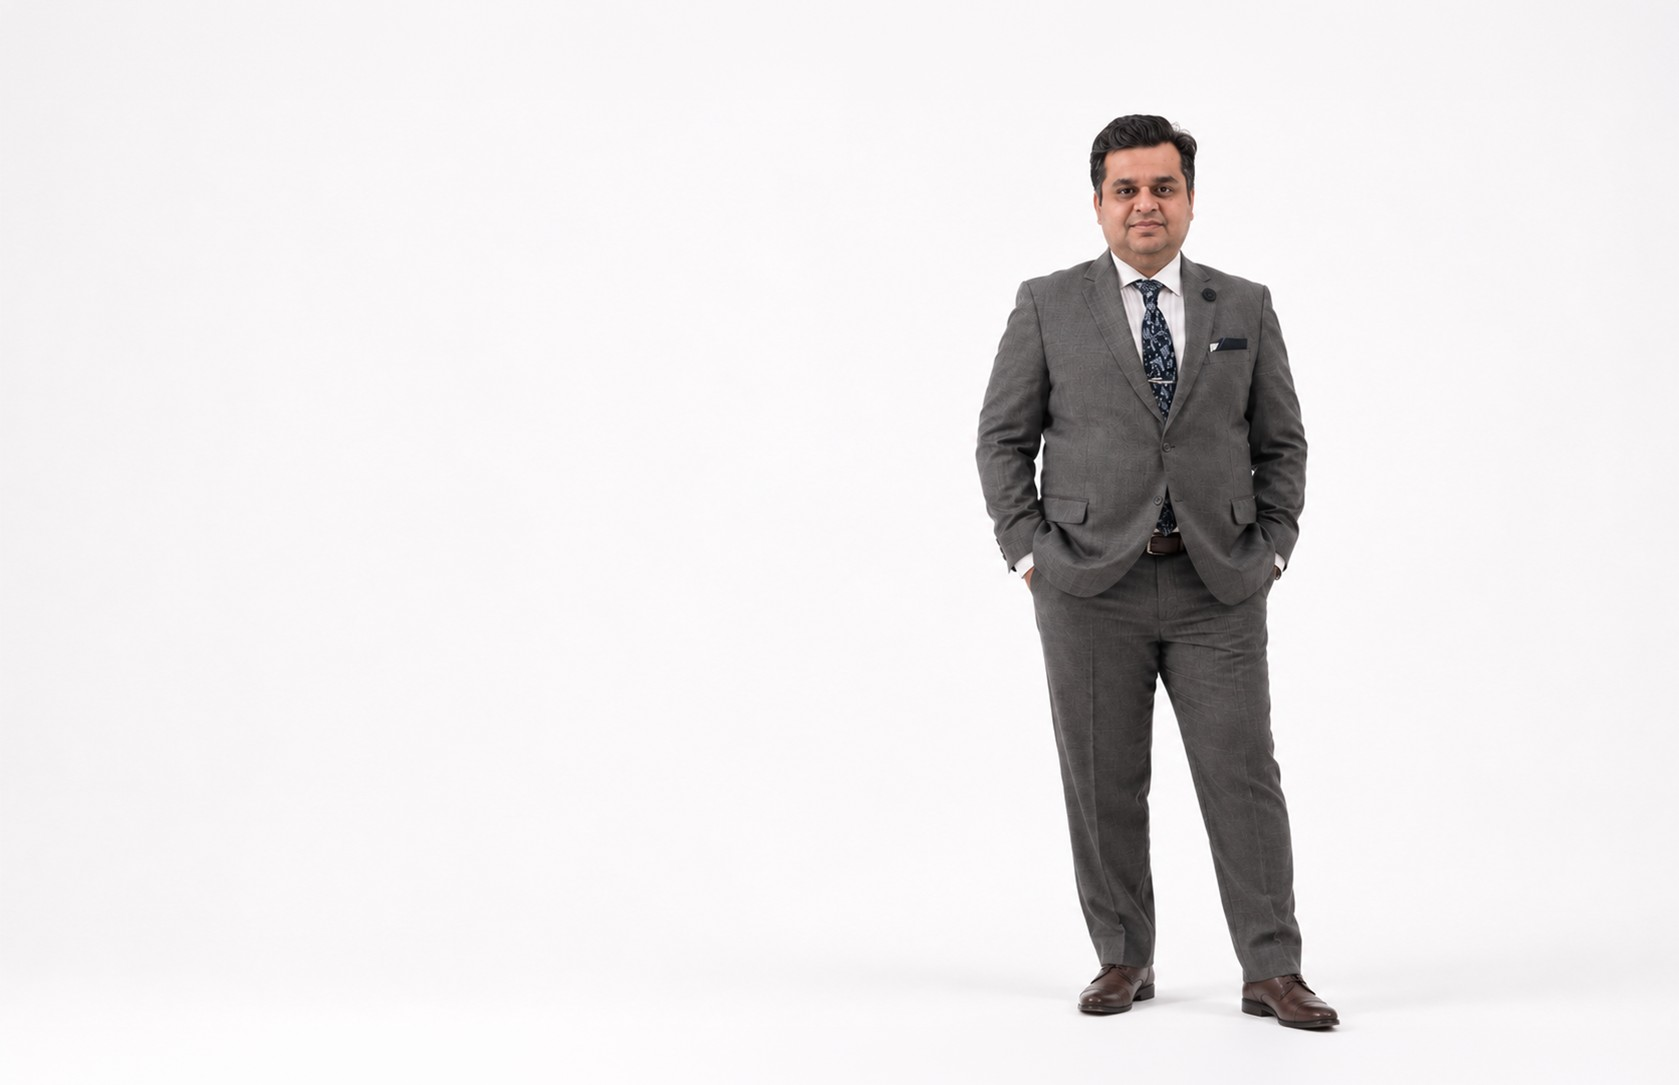
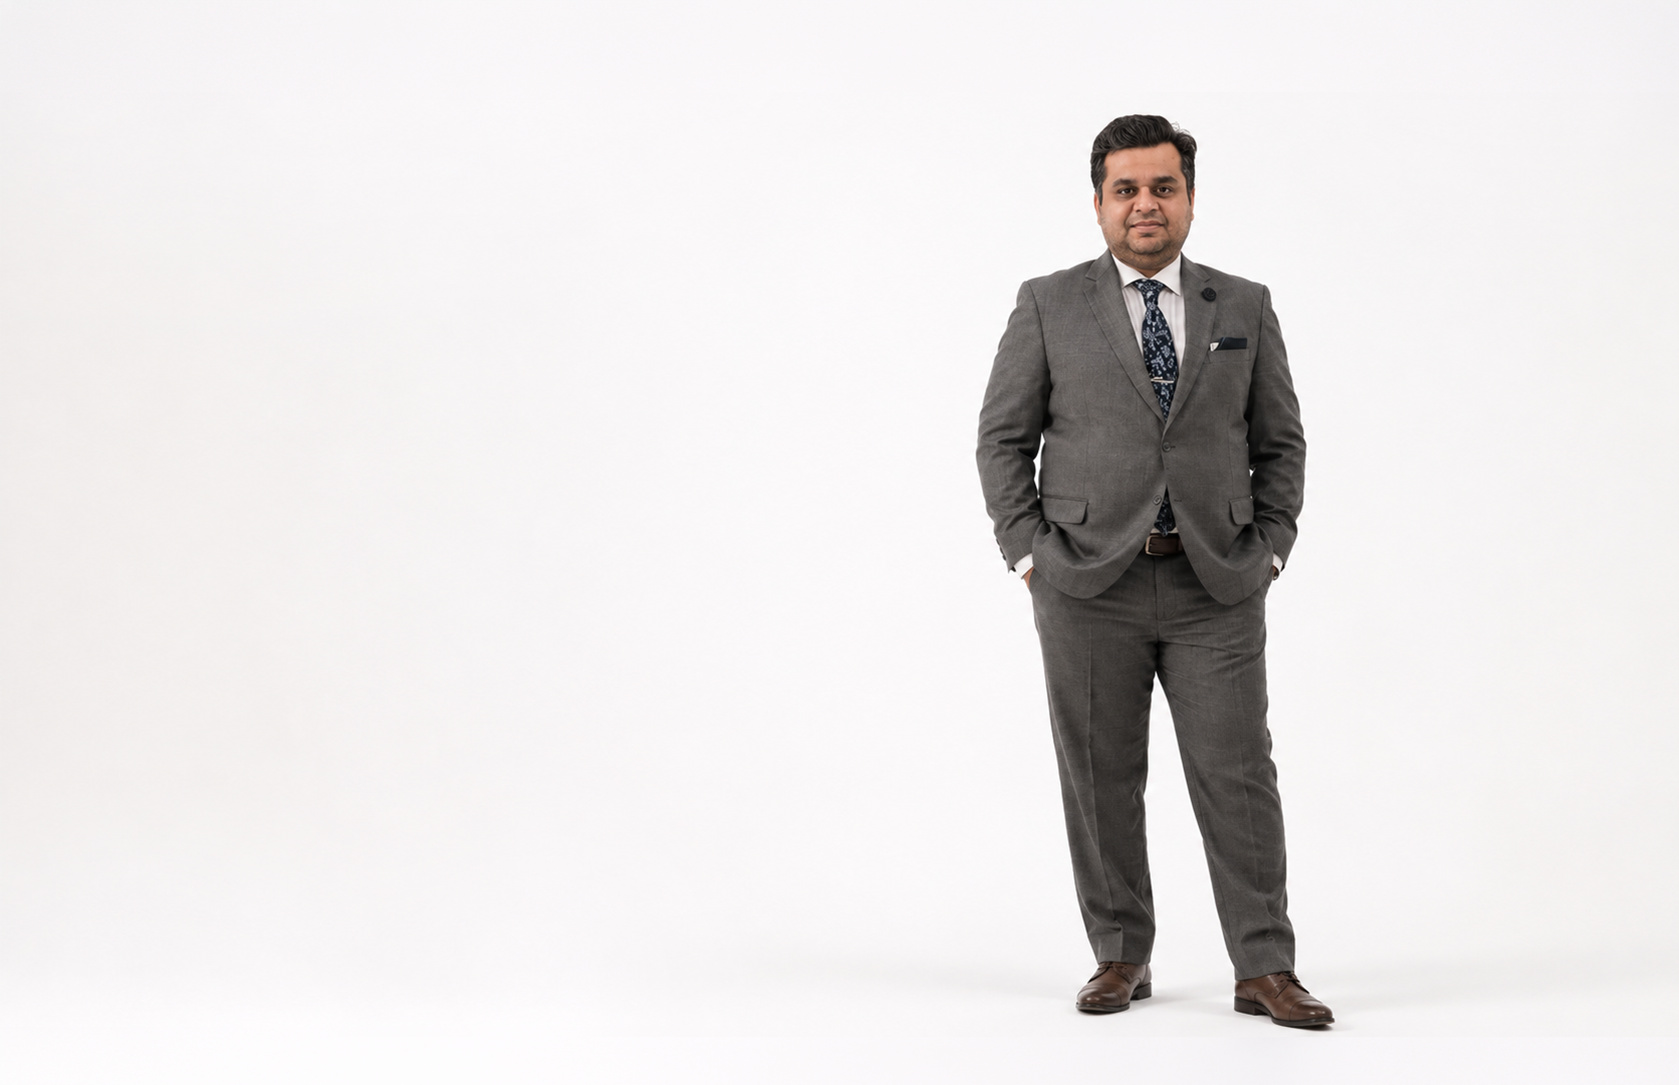
Our Team: sharper photo on Ahsan's card
Use the new studio photo at high quality, plus a sharp card crop that
fades out as the profile opens, as Bilal's does.

Claude-Session: https://claude.ai/code/session_01ULmEauHV8F9QWj7dLHgBAa

diff --git a/lib/team.ts b/lib/team.ts
@@ -64,7 +64,7 @@ export const team: Member[] = [
         "ERP · CFO Advisory · Finance Transformation",
       ],
       workedWith: "Worked With",
-      photo: { scene: "/figma/ahsan-scene.jpg", left: 0.596, top: 0.08, focus: 0.68, phoneTop: 0.045, bg: "#f6f4f5" },
+      photo: { scene: "/figma/ahsan-scene.jpg", card: "/figma/ahsan-card.jpg", left: 0.596, top: 0.08, focus: 0.68, phoneTop: 0.045, bg: "#f6f4f5" },
       clients: [
         { name: "PwC", logo: "pwc" },
         { name: "IMC Worldwide" },
